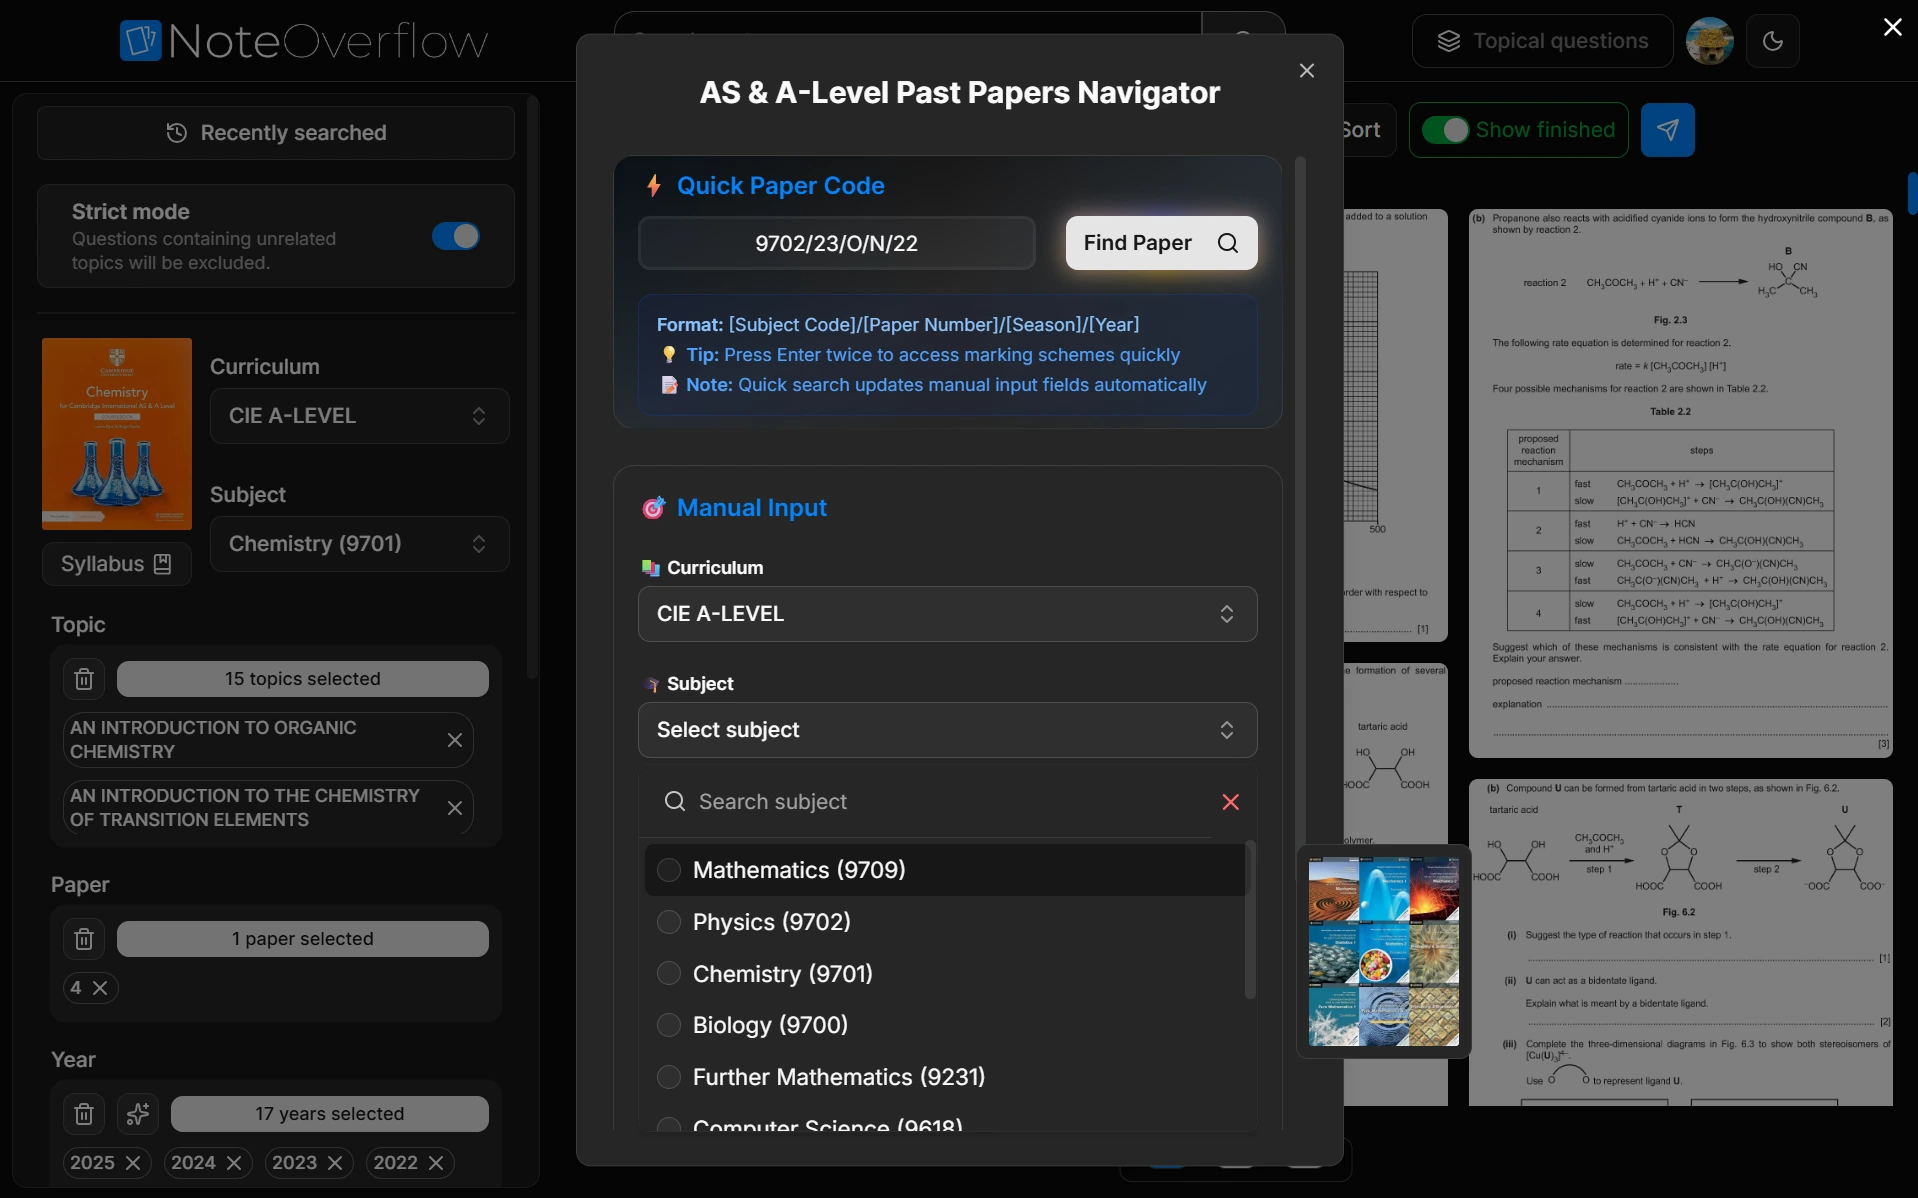
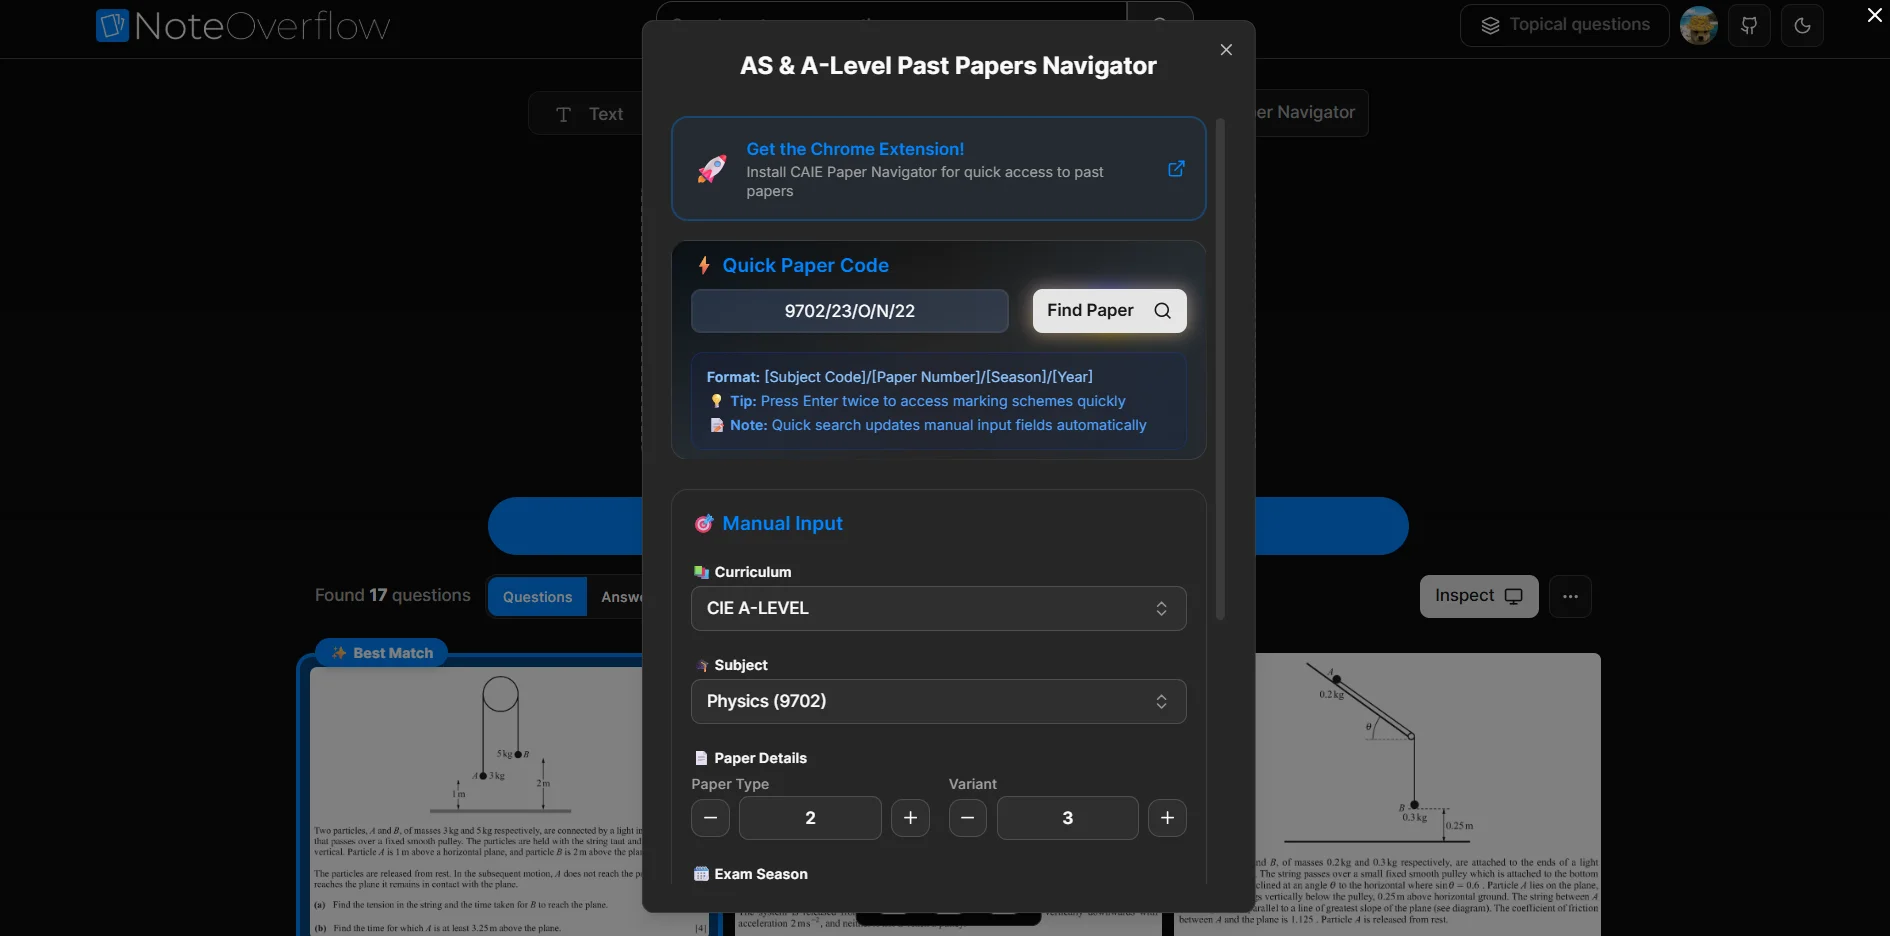
chore: Update README

diff --git a/README.md b/README.md
@@ -38,7 +38,7 @@
 
 ## 📖 Introduction
 
-**NoteOverflow** is a specialized platform built exclusively for **Cambridge International Examinations (CIE) AS and A-Level students**. Designed to streamline exam preparation, NoteOverflow helps students organize topical questions by subject, year, paper type, and season. With powerful PDF annotation tools and exportable PDFs, it transforms how students prepare for their Cambridge exams by making past papers interactive and accessible.
+**NoteOverflow** is a specialized platform built exclusively for **Cambridge International Examinations (CIE) AS and A-Level students**. Designed to streamline exam preparation, NoteOverflow helps students organize topical questions by subject, year, paper type, and season. With **AI-powered semantic search**, powerful PDF annotation tools, and exportable PDFs, it transforms how students prepare for their Cambridge exams by making past papers interactive and accessible.
 
 ## ✨ Features
 
@@ -65,6 +65,8 @@ NoteOverflow is packed with features tailored for Cambridge AS and A-Level exam 
 - **🔍 Past Paper Search**: Quickly find specific past papers using the intelligent search navigator. Enter a quick paper code (e.g., 9702/23/O/N/22) for instant access, or use manual filters to browse by curriculum, subject, paper type, variant, and season.
 
 <img src="https://raw.githubusercontent.com/caocchinh/noteoverflow/refs/heads/master/public/assets/github/navigator.webp" alt="Topical Question Browser Screenshot" style="border-radius: 10px;margin-top:-10px; border: 3px solid #0084ff;margin-bottom:10px" />
+
+- **🧠 AI-Powered Semantic Search**: Search for questions using natural language or by uploading an image. NoteOverflow uses advanced vector embeddings to understand the context of your query, allowing you to find specific questions even if you don't know the exact wording.
 
 - **🔖 Smart Bookmarking and progress tracking**: Create custom bookmark lists to organize questions by topic, difficulty, or revision priority. And mark questions as completed and track your progress.
 
